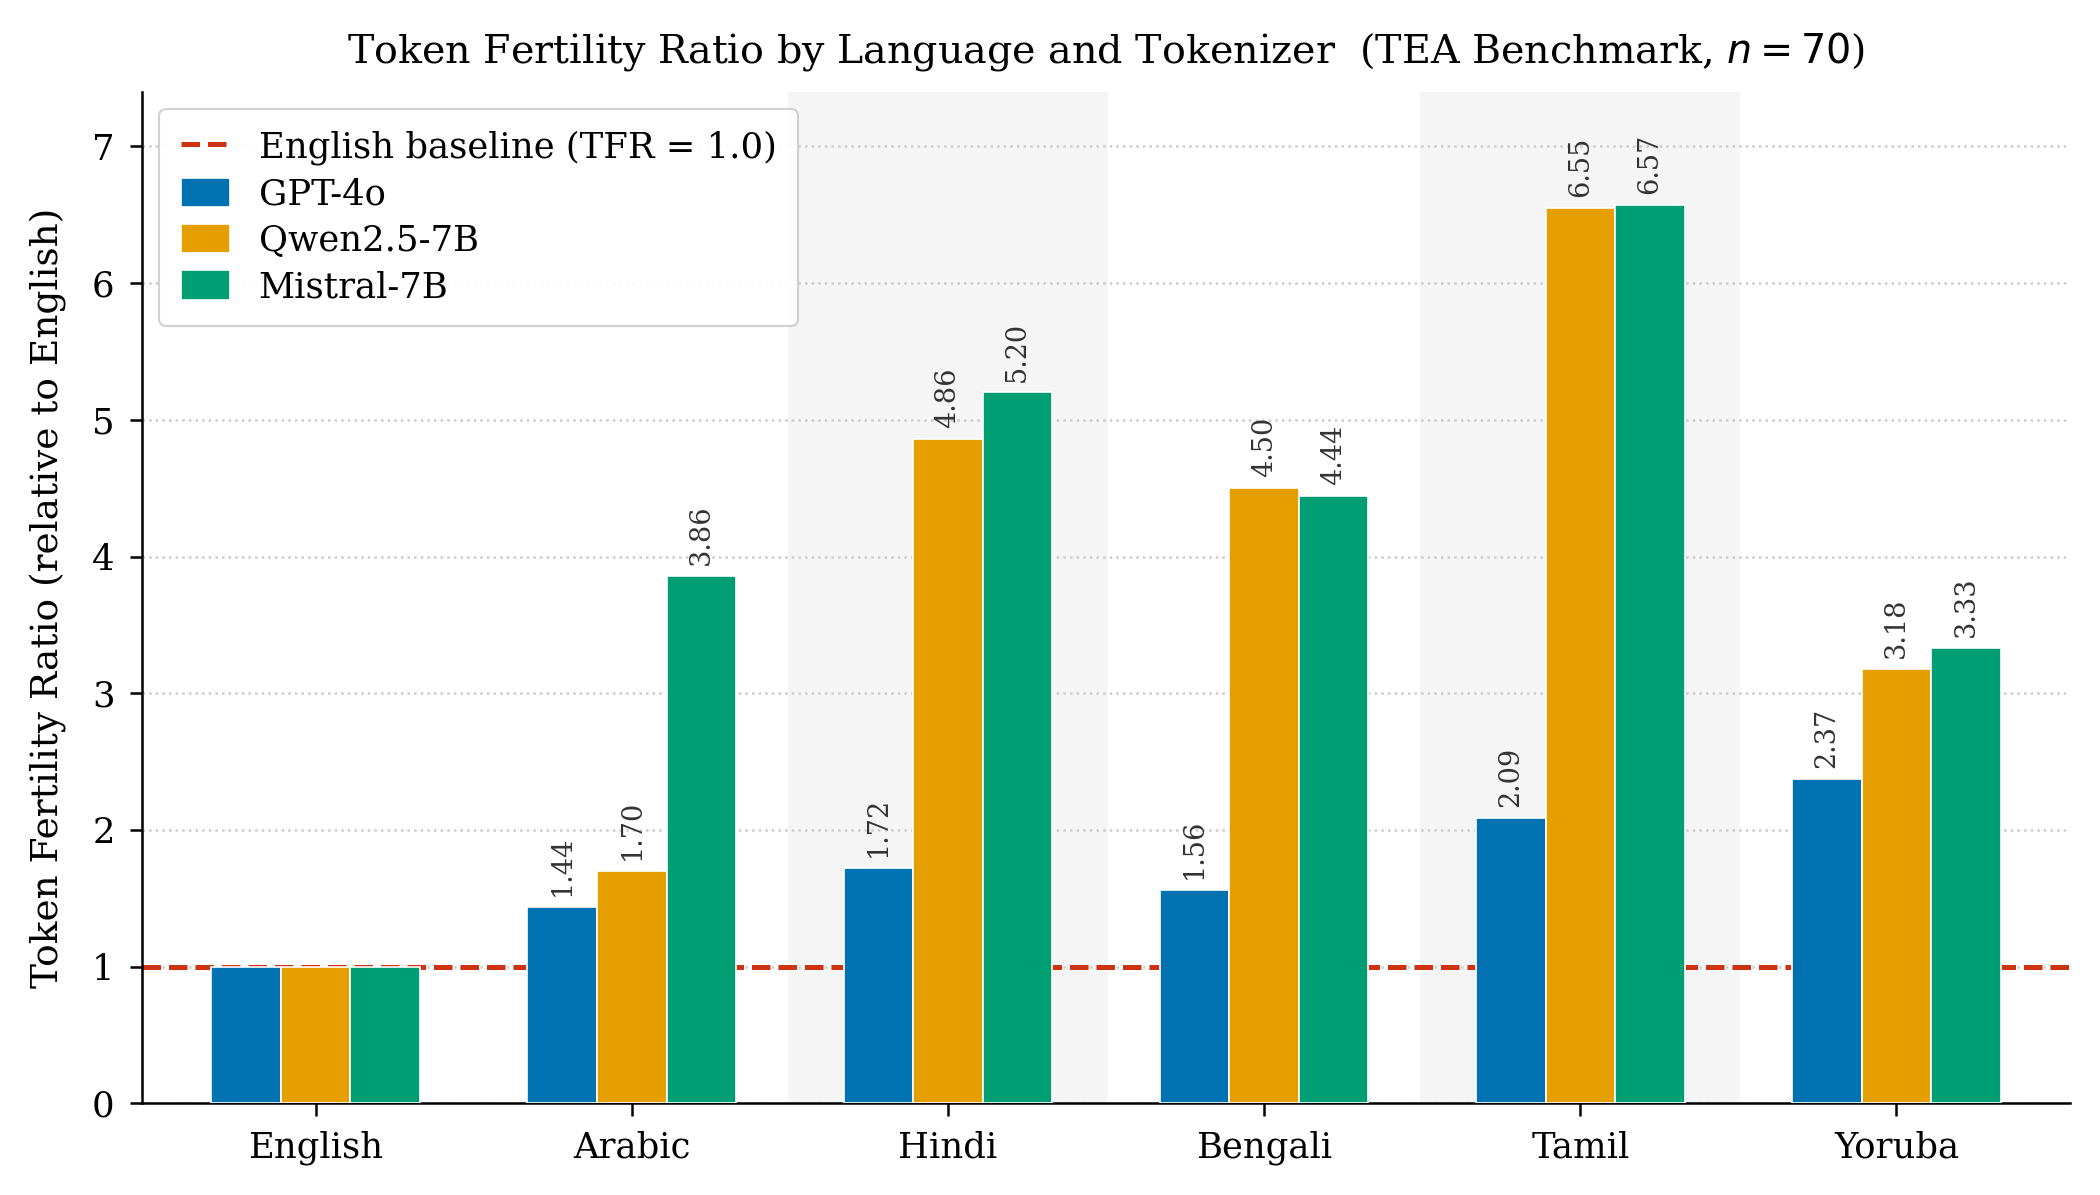
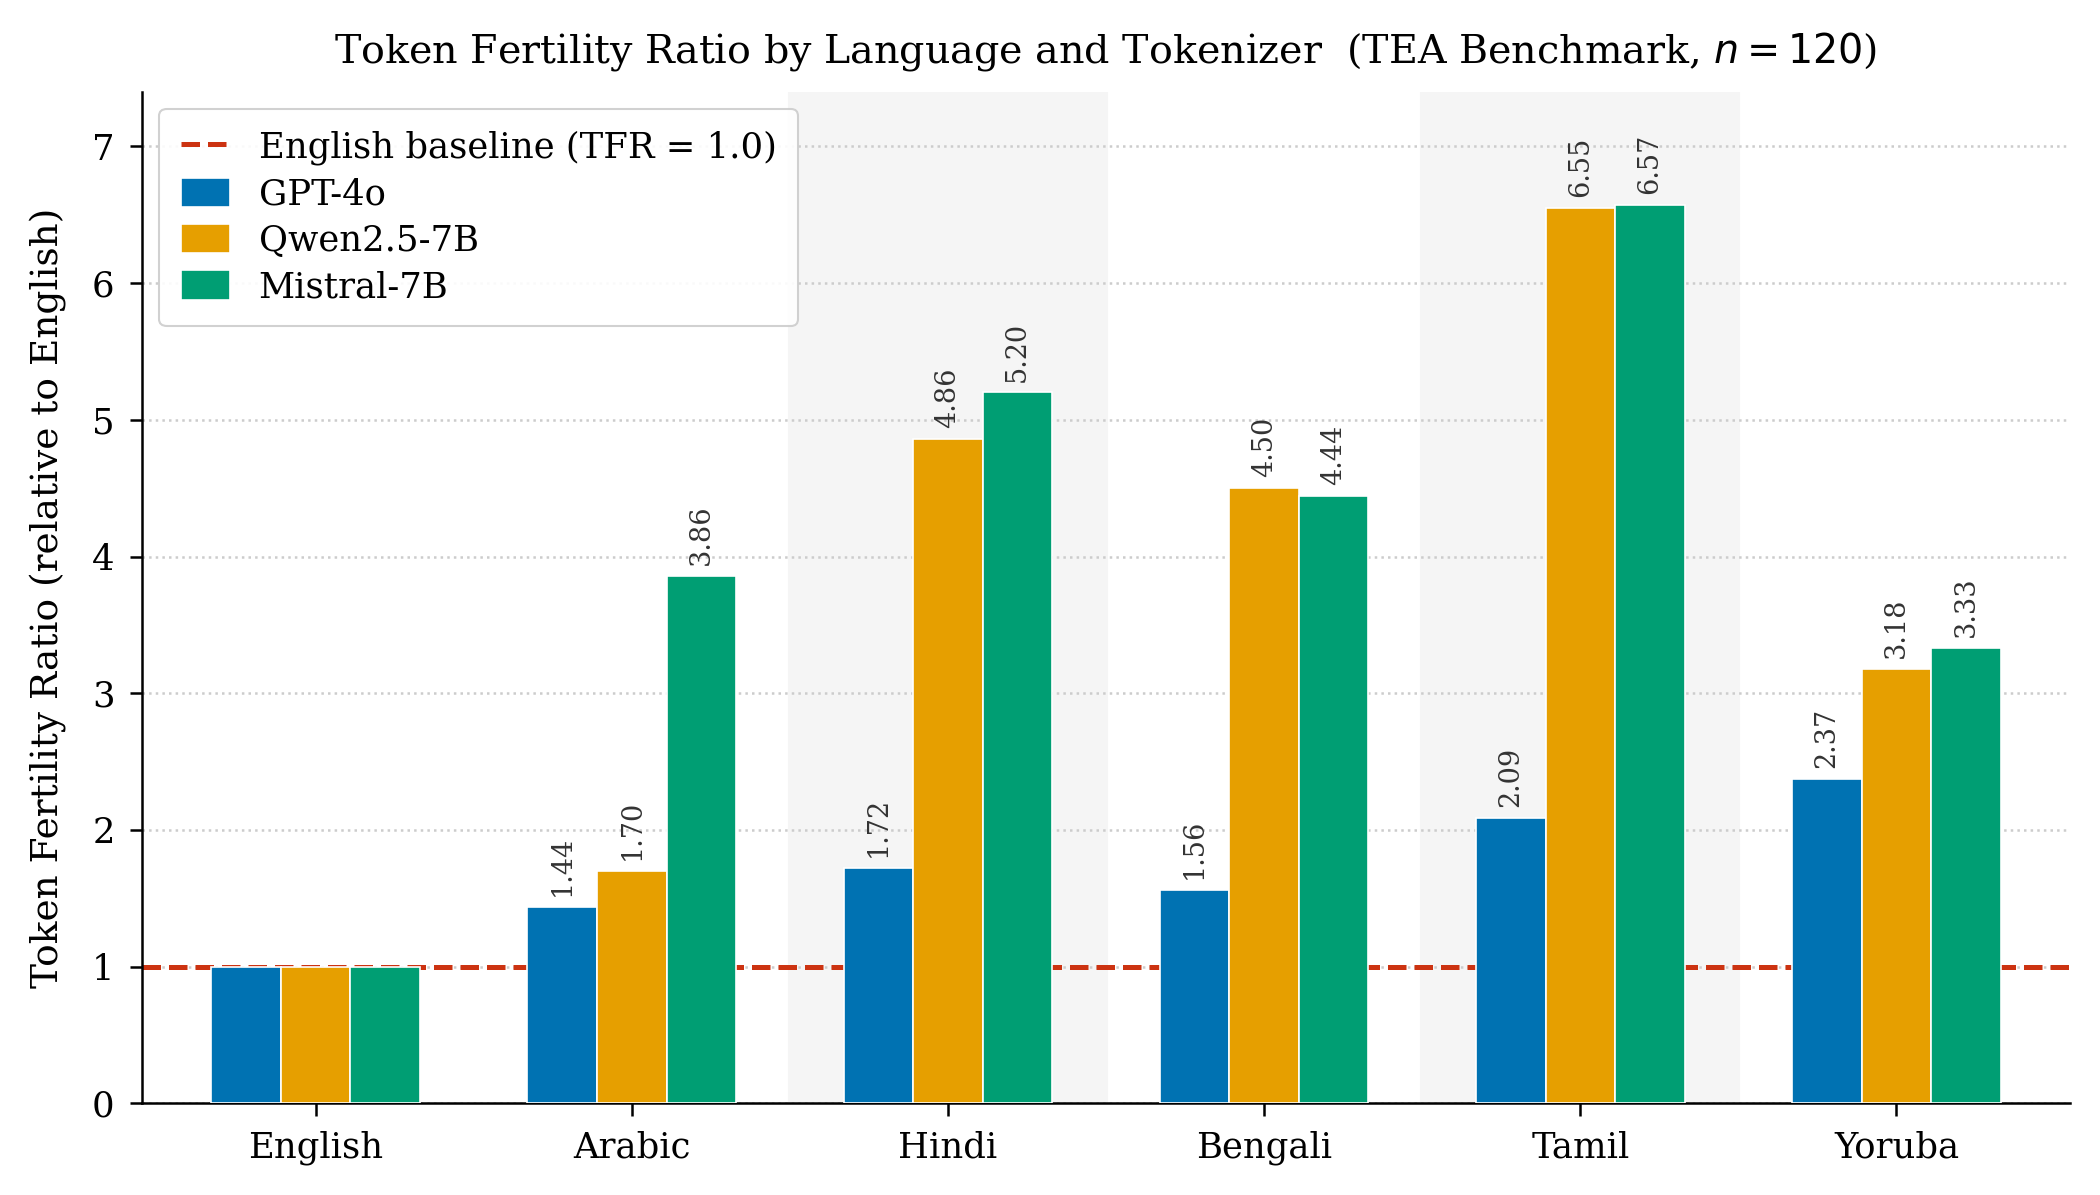
Update figures and notes: reflect changes in TFR metrics and add new figure generation details

Changed region(s): [[0.1548, 0.031, 0.8976, 0.0619]]

diff --git a/scripts/generate_tfr_figure.py b/scripts/generate_tfr_figure.py
@@ -199,7 +199,7 @@ legend.get_frame().set_linewidth(0.5)
 
 # ── Caption-style title (sits above the figure as a short descriptor) ────────
 ax.set_title(
-    "Token Fertility Ratio by Language and Tokenizer  (TEA Benchmark, $n = 70$)",
+    "Token Fertility Ratio by Language and Tokenizer  (TEA Benchmark, $n = 120$)",
     pad=7,
     fontsize=9.5,
     fontweight="normal",

diff --git a/Notes.md b/Notes.md
@@ -125,3 +125,15 @@ All figures, README, and RUNBOOK updated to reflect 120-item corpus.
 - figures: 4
 - tfr_pdf: tfr_by_language_tokenizer.pdf
 - ecw_pdf: ecw_by_language.pdf
+
+
+## 2026-05-10 — `generate_tfr_figure.py` run
+- figures: 4
+- tfr_pdf: tfr_by_language_tokenizer.pdf
+- ecw_pdf: ecw_by_language.pdf
+
+
+## 2026-05-10 — `generate_tfr_figure.py` run
+- figures: 4
+- tfr_pdf: tfr_by_language_tokenizer.pdf
+- ecw_pdf: ecw_by_language.pdf
